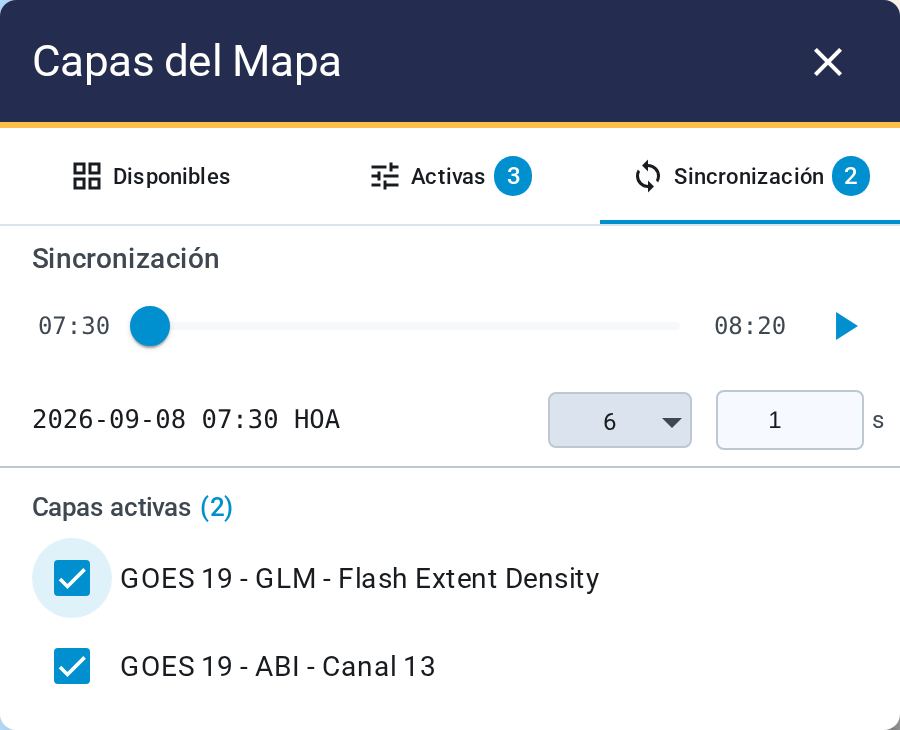
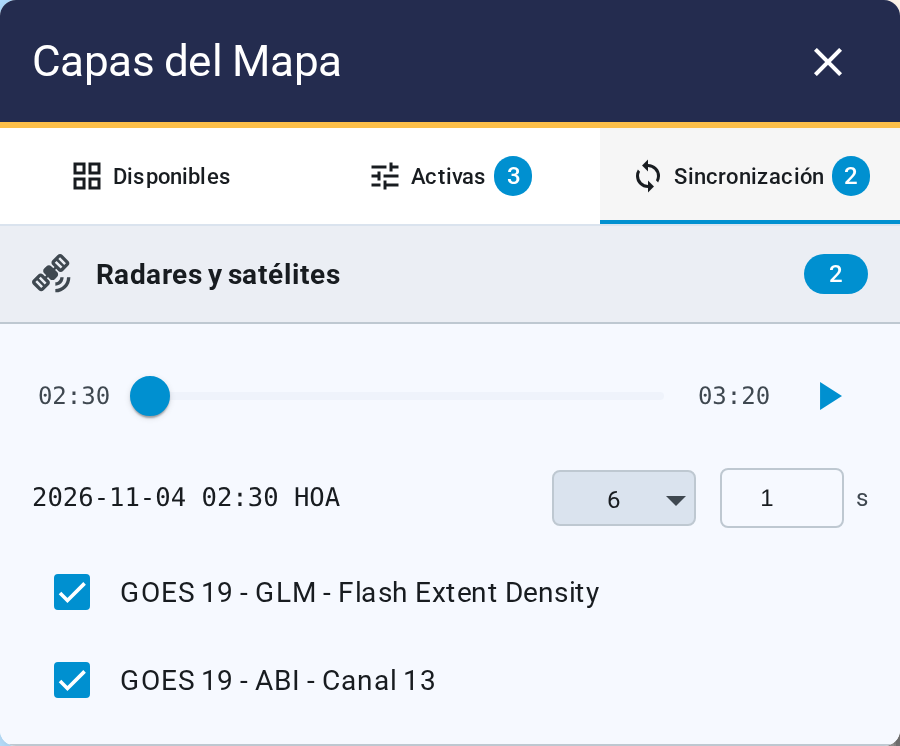
docs: describe sync groups and their timeline in the animation chapter

diff --git a/scripts/docs-media/shots.config.ts b/scripts/docs-media/shots.config.ts
@@ -328,11 +328,21 @@ export const SHOTS: Shot[] = [
     seed: seed({ 'active-layers': [wms(PROVINCIA, 1), goes(CH13, 1, 12), goes(GLM_FED, 2, 12, 0.9)] }),
     steps: [
       ...openPanel('layers'),
-      { do: 'click', target: '[data-testid="layers-tab-sync"]', pauseMs: 900 },
-      { do: 'click', target: `[data-testid="layers-sync-pick-${CH13}"] mat-checkbox`, pauseMs: 700 },
-      { do: 'click', target: `[data-testid="layers-sync-pick-${GLM_FED}"] mat-checkbox`, pauseMs: 1500 },
+      // Both GOES layers join the observations group on their own; nothing to pick.
+      { do: 'click', target: '[data-testid="layers-tab-sync"]', pauseMs: 1500 },
     ],
     waitFor: '[data-testid="layers-tab-sync"]', clip: PANEL,
+  },
+  {
+    id: '05-sincronizacion-linea', kind: 'shot', output: 'docs/imgs/manual/05-sincronizacion-linea.png', viewport: SHOT, route: '/',
+    seed: seed({ 'active-layers': [wms(PROVINCIA, 1), goes(CH13, 1, 12), goes(GLM_FED, 2, 12, 0.9)] }),
+    steps: [
+      ...openPanel('layers'),
+      // Both GOES layers join the observations group on their own; nothing to pick.
+      { do: 'click', target: '[data-testid="layers-tab-sync"]', pauseMs: 1500 },
+      { do: 'click', target: '[data-testid="layers-sync-timeline"]', pauseMs: 2000 },
+    ],
+    waitFor: '[data-testid="layers-tab-sync"]',
   },
   {
     id: '05-consulta', kind: 'shot', output: 'docs/imgs/manual/05-consulta.png', viewport: SHOT, route: '/',

diff --git a/docs/manual/animacion.md b/docs/manual/animacion.md
@@ -44,25 +44,82 @@ Período fuerza esa consulta. Si la capa no tiene nada que mostrar, el lugar del
 
 ## Animar varias capas juntas
 
-Si reproducís dos capas por separado, cada una avanza a su ritmo. La pestaña Sincronización
-alinea varias capas al mismo instante. Elegís las capas bajo Capas activas, y la aplicación busca
-para cada cuadro una imagen de cada capa dentro de cinco minutos de diferencia.
+Si reproducís dos capas por separado, cada una avanza a su ritmo. La pestaña Sincronización las
+anima juntas, mostrando en cada cuadro el mismo instante en todas.
 
-![La pestaña Sincronización, con dos capas alineadas](../imgs/manual/05-sincronizacion.png){ .doc-figure loading=lazy }
+No hace falta elegir las capas. La pestaña las reparte en grupos de capas con horarios parecidos, y
+cada grupo tiene su propia barra, cantidad de imágenes, velocidad y botón de reproducción, así que
+podés animar los dos a la vez:
 
-Cuando una capa está sincronizada:
+- **Radares y satélites**: las capas de radar y GOES-19. Una imagen acompaña al instante si está a
+  menos de cinco minutos.
+- **Modelos numéricos**: WRF, GFS y ECMWF. Una imagen acompaña al instante si está a menos de
+  media hora.
 
-- Su sección Período muestra la marca "Sincronizado".
-- Sus controles propios quedan deshabilitados: manda la sincronización.
-- Su botón de reproducción pasa a ofrecer "Desconectar de sincronización".
+Las estaciones meteorológicas no participan: se animan desde su propia capa.
 
-Si una capa tiene menos imágenes que las demás, la ventana se achica a esa cantidad. El panel lo
-avisa con "Mostrando N de M", y la capa lleva una marca con su cantidad real.
+![La pestaña Sincronización, con dos capas en el grupo de radares y satélites](../imgs/manual/05-sincronizacion.png){ .doc-figure loading=lazy }
 
-!!! warning "Si no se pueden alinear, no se reproduce"
-    Sin instantes en común, el panel bloquea la reproducción y muestra "Las capas seleccionadas
-    no tienen períodos en común". Si el mejor alineamiento supera los cinco minutos, el mensaje es
-    "No se pudo alinear temporalmente las capas seleccionadas".
+Toda capa que encendés entra sola en su grupo y aparece marcada. Cuando el grupo ya tiene otra capa
+compatible, el grupo queda listo para reproducirlas; si no, la pestaña indica qué encender. Con una
+sola capa, la capa conserva sus controles propios. Si desmarcás una capa, sale del grupo hasta que
+la apagues y la vuelvas a encender, o la vuelvas a marcar.
+
+Los instantes los marca la capa del grupo con imágenes más espaciadas: cada una de sus últimas
+imágenes es un cuadro, y cada otra capa suma su imagen más cercana. Si a alguna capa le falta la
+imagen de un instante, o la tiene demasiado corrida, en ese cuadro sigue mostrando la que tenía. Una
+capa que coincide en menos de dos instantes queda afuera, con la nota "sin horarios en común".
+
+### Ver y editar la línea de tiempo
+
+El botón de línea de tiempo del encabezado de cada grupo abre un gráfico con un carril por capa.
+Cada punto es una imagen, y cada línea es un cuadro de la animación que une las imágenes que se
+ven juntas; los puntos resaltados son los que entran en algún cuadro. Arriba de cada línea está el
+número del cuadro, y el que se está mostrando queda resaltado mientras la animación corre. Un tramo
+punteado cruza una capa que ese cuadro no incluye.
+
+![La línea de tiempo de un grupo, con una línea por cuadro](../imgs/manual/05-sincronizacion-linea.png){ .doc-figure loading=lazy }
+
+Por defecto la aplicación arma la combinación más pareja, y desde ahí podés armar los cuadros a
+mano. Cada cuadro tiene una imagen de cada capa como mucho y una como mínimo; la capa que un cuadro
+no incluye sigue mostrando la imagen que tenía. La hora de un cuadro es el promedio de las horas de
+sus imágenes, y es la que ordena los cuadros y la que muestra el reproductor.
+
+Cada carril tiene a su izquierda la casilla de su capa: destildarla la saca del grupo y tildarla la
+vuelve a sumar, igual que en la pestaña. Las capas que quedan afuera (por no tener horarios en común
+o porque las destildaste) siguen en su carril, en gris y con el motivo; sus puntos se ven pero no se
+pueden unir.
+
+- **Armar un cuadro**: un clic en un punto suelto empieza un cuadro, y cada clic en un punto de
+  otra capa lo suma, en el orden que quieras y salteando las capas que quieras. Un punto de una capa
+  que ya está en el cuadro reemplaza su imagen; un clic en un punto del cuadro lo quita. Con una
+  imagen de cada capa el cuadro se termina solo; si no, **Listo** (o Enter) lo termina, aunque tenga
+  una sola imagen, y **Cancelar** (o Esc) lo descarta y deja los cuadros como estaban. Un doble clic
+  en un punto, o un clic en el fondo del gráfico, también lo termina.
+- **Sin cruces**: ninguna capa puede volver atrás de un cuadro al siguiente, así que las líneas no
+  se cruzan. Si un cuadro cruzaría a otro, su línea se pinta en rojo, la barra indica en qué capa
+  y no se puede terminar hasta corregirlo.
+- **Editar un cuadro**: un clic en su línea, o en uno de sus puntos, lo vuelve a abrir para sumar o
+  quitar imágenes. **Listo** guarda los cambios y **Cancelar** los deshace.
+- **Borrar un cuadro**: mientras lo editás, **Borrar conexión** o la tecla Supr. **Borrar todas**
+  vacía la línea de tiempo para empezar de cero.
+- **Restablecer** vuelve a la combinación automática.
+
+La cantidad de imágenes se elige en la pestaña o abajo a la izquierda de la línea de tiempo; elegir
+otra vuelve a la combinación automática.
+
+Mientras un grupo se reproduce, cada una de sus capas:
+
+- Muestra en su sección Período la marca "Sincronizado".
+- Tiene sus controles propios deshabilitados: manda la sincronización.
+- Ofrece en su botón de reproducción "Desconectar de sincronización".
+
+En pausa, cada capa recupera sus controles. El número junto a la pestaña Sincronización cuenta las
+capas de los grupos que se están reproduciendo. Cada grupo se puede plegar; su encabezado sigue
+mostrando si se reproduce, el instante actual y cuántas capas tiene.
+
+Si desconectás una capa desde su propio botón de reproducción, o le cambiás la cantidad de imágenes,
+sale del grupo y conserva la cantidad de imágenes que tenía sincronizada.
 
 ## Consultar un valor puntual
 

diff --git a/docs/manual/glosario.md b/docs/manual/glosario.md
@@ -49,7 +49,7 @@ Imagen, instante, paso
 :   Cada cuadro de la secuencia. En observación se llama instante; en modelos, paso.
 
 Sincronización
-:   Reproducir varias capas con sus instantes alineados, con cinco minutos de tolerancia.
+:   Reproducir varias capas mostrando en cada cuadro el mismo instante en todas.
 
 Sincronizado
 :   La marca que lleva una capa mientras la controla la sincronización.
